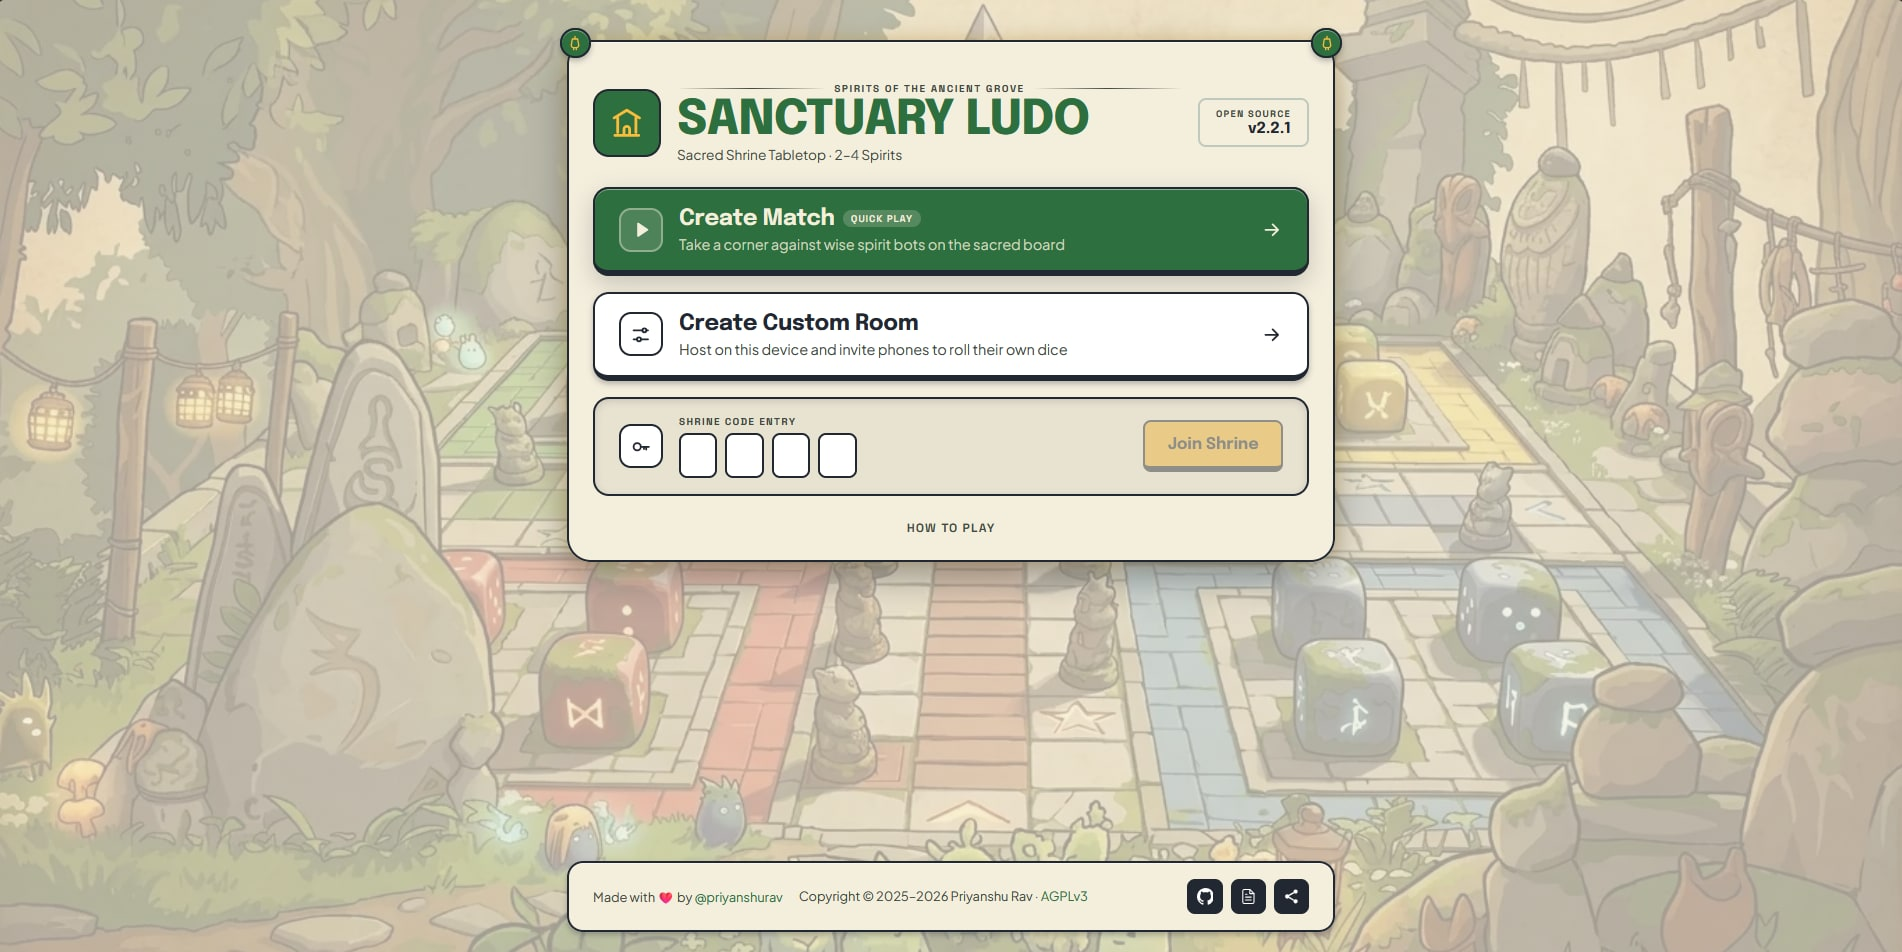
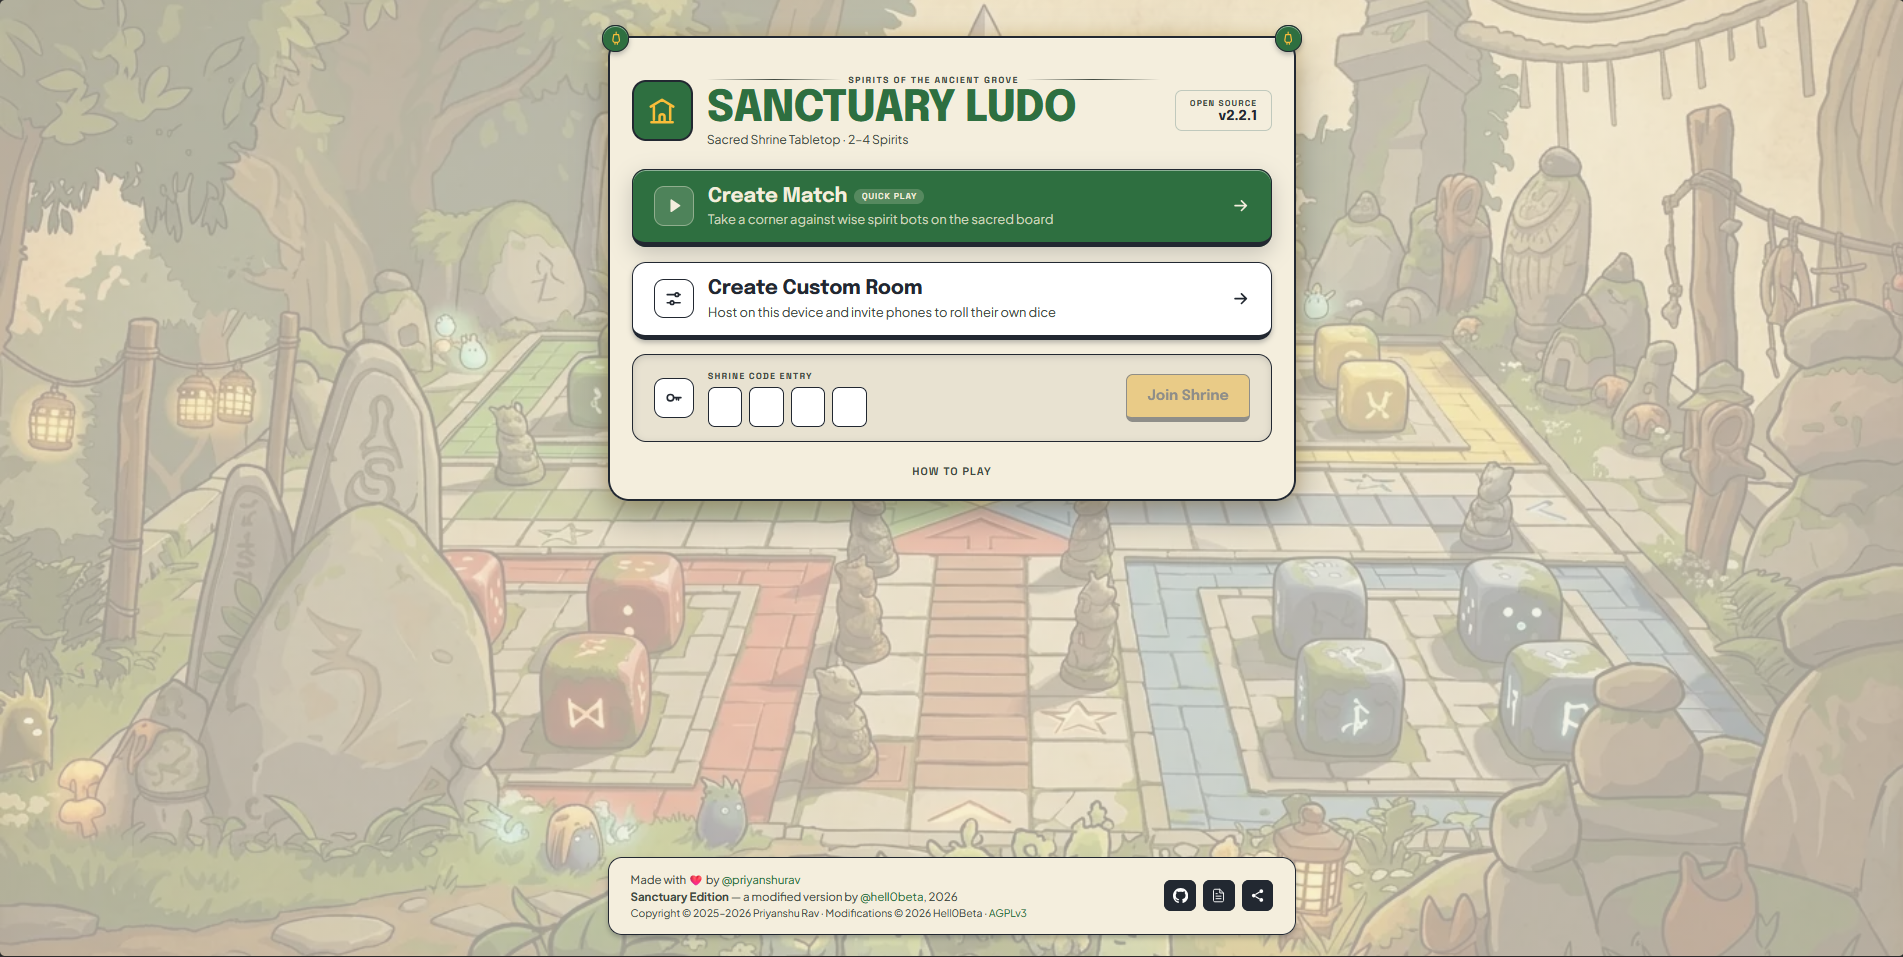
docs: update README to clarify screenshot relevance and improve image descriptions

diff --git a/src/pages/HomePage/HomePage.module.css b/src/pages/HomePage/HomePage.module.css
@@ -6,16 +6,38 @@
  * lantern hooks overhang the tablet's top corners, which is what stops it reading as a plain card.
  */
 
+/*
+ * Three rows: an empty spacer, the tablet, and a second spacer that the footer shares.
+ *
+ * This is what puts the card on the true middle of the screen. A plain centring would sit it high
+ * by half the footer's height, because the footer is a sibling in the same column and takes space
+ * out of the bottom; giving the bottom spacer the *same* `1fr` as the top one cancels that exactly.
+ * The tablet's centre lands on the viewport's centre by the arithmetic, not by eye — and the `gap`
+ * cancels too, since there is one on each side of it.
+ *
+ * The `1fr` rows are `minmax(auto, 1fr)`, so on a viewport too short for the card they collapse to
+ * nothing and the page scrolls, rather than cropping the top of the card — the usual failure of a
+ * centred flex child.
+ */
 .page {
+  position: relative;
   min-height: 100vh;
-  display: flex;
-  flex-direction: column;
+  display: grid;
+  grid-template-rows: 1fr auto 1fr;
+  justify-items: center;
   align-items: center;
   gap: var(--space-xl);
-  padding: var(--space-xl) var(--space-lg) var(--space-lg);
+  /*
+   * Vertical padding is symmetric, and that is load-bearing rather than tidy: the two `1fr` rows
+   * split the *content box*, so unequal padding would put the card off-centre by half the
+   * difference. The old value was `space-xl` top and `space-lg` bottom, which would have left it
+   * 8px low — small, but the whole point of the change is that it is centred on the nose.
+   */
+  padding: var(--space-xl) var(--space-lg);
 }
 
 .tablet {
+  grid-row: 2;
   position: relative;
   width: min(48rem, 100%);
   display: flex;
@@ -188,8 +210,20 @@
 /* ------------------------------------------------------------------ footer */
 
 .footer {
+  /*
+   * Row 3, hugging its bottom edge — which is the bottom of the page. `align-self` is needed
+   * because the grid centres its items, and centring the footer inside a whole `1fr` spacer would
+   * leave it floating in the middle of the empty band rather than resting at the foot of the screen.
+   */
+  grid-row: 3;
+  align-self: end;
   width: min(48rem, 100%);
-  margin-top: auto;
+  /*
+   * No `margin-top: auto` any more. It used to push the footer to the bottom of the column, back
+   * when the tablet sat directly under the top padding. The row it lives in now does that, so an
+   * auto margin here would have nothing left to claim — and would read as if the footer's position
+   * still depended on it.
+   */
   display: flex;
   flex-wrap: wrap;
   align-items: center;

diff --git a/README.md b/README.md
@@ -36,6 +36,10 @@ Upstream stays upstream: bug reports about the original game belong
 original is — see [LICENSE](LICENSE). The **No Affiliation or Endorsement** section at the end of
 this file applies to this fork as much as to any other.
 
+> **The screenshots below are the upstream ones and show the old interface.** They have not been
+> regenerated for this fork's redesign, so treat them as a picture of where the game came from
+> rather than of what it looks like now.
+
 ---
 
 ## 🎮 Play LibreLudo
@@ -47,23 +51,15 @@ The menu's **Create Custom Room** opens a board and shows a QR code for phones.
 
 ## 📸 Screenshots
 
-<div align="center">
-  <img src=".github/assets/libreludo-homepage.jpg" alt="The start menu: a parchment tablet over the shrine courtyard, with Create Match, Create Custom Room, and a four-cell shrine code entry" width="100%" />
+<div align="center"> 
+  <img src=".github/assets/libreludo-homepage.jpg" alt="LibreLudo Homepage" width="100%" />
 </div>
 
 <br />
 
-|                                     Match Setup                                      |                                       The board                                        |
-| :----------------------------------------------------------------------------------: | :------------------------------------------------------------------------------------: |
-| <img src=".github/assets/libreludo-setup.jpg" alt="Match Setup: seat list beside the invite panel, whose QR code and passcode are ready for phones" width="100%"> | <img src=".github/assets/libreludo-play.jpg" alt="The tabletop: the board in its frame, with the spirit column down the left, player 1's pairing QR, and pins numbered 1 to 4" width="100%"> |
-
-<br />
-
-<div align="center">
-  <img src=".github/assets/libreludo-phone.jpg" alt="The phone controller: a die, a Roll button, and four pieces numbered 1 to 4 with where each one is" width="320" />
-</div>
-
-<p align="center"><sub>The phone controller — a die, a roll, and your four pieces. In the board shot, player 1's card carries the QR that puts this on your phone.</sub></p>
+|                               Game Setup                                |                                 Gameplay                                  |
+| :---------------------------------------------------------------------: | :-----------------------------------------------------------------------: |
+| <img src=".github/assets/libreludo-setup.jpg" alt="Setup" width="100%"> | <img src=".github/assets/libreludo-play.jpg" alt="Gameplay" width="100%"> |
 
 ---
 
